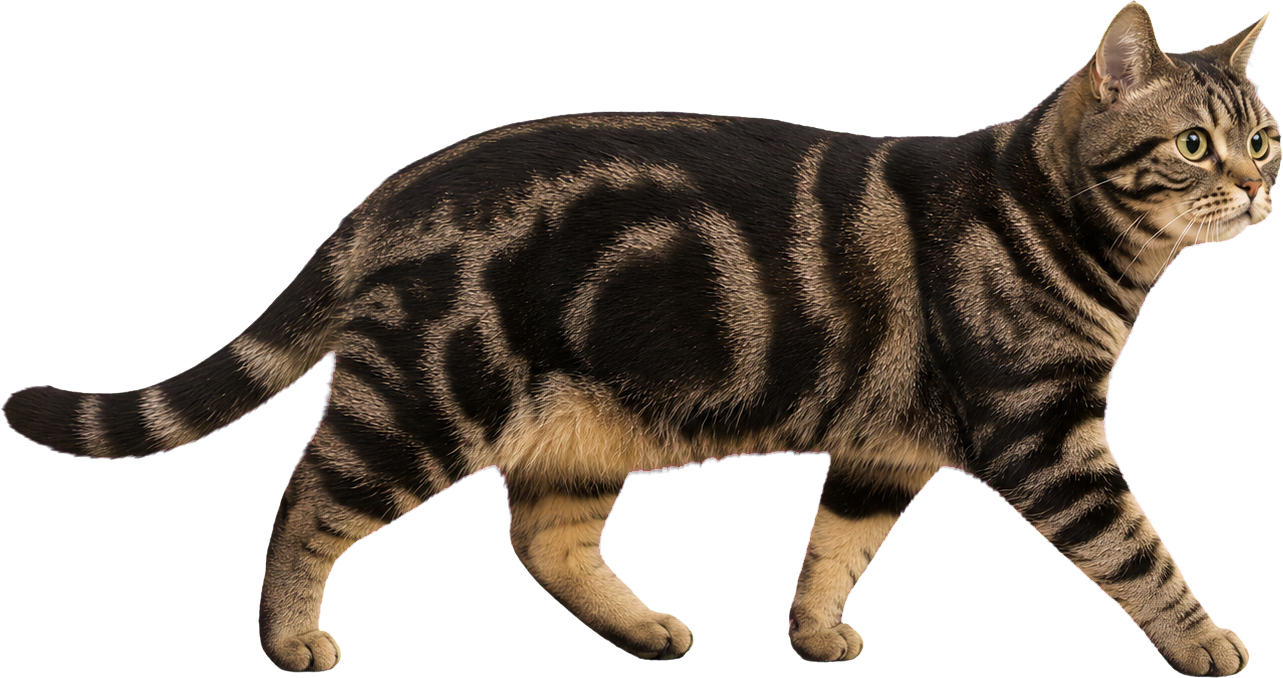
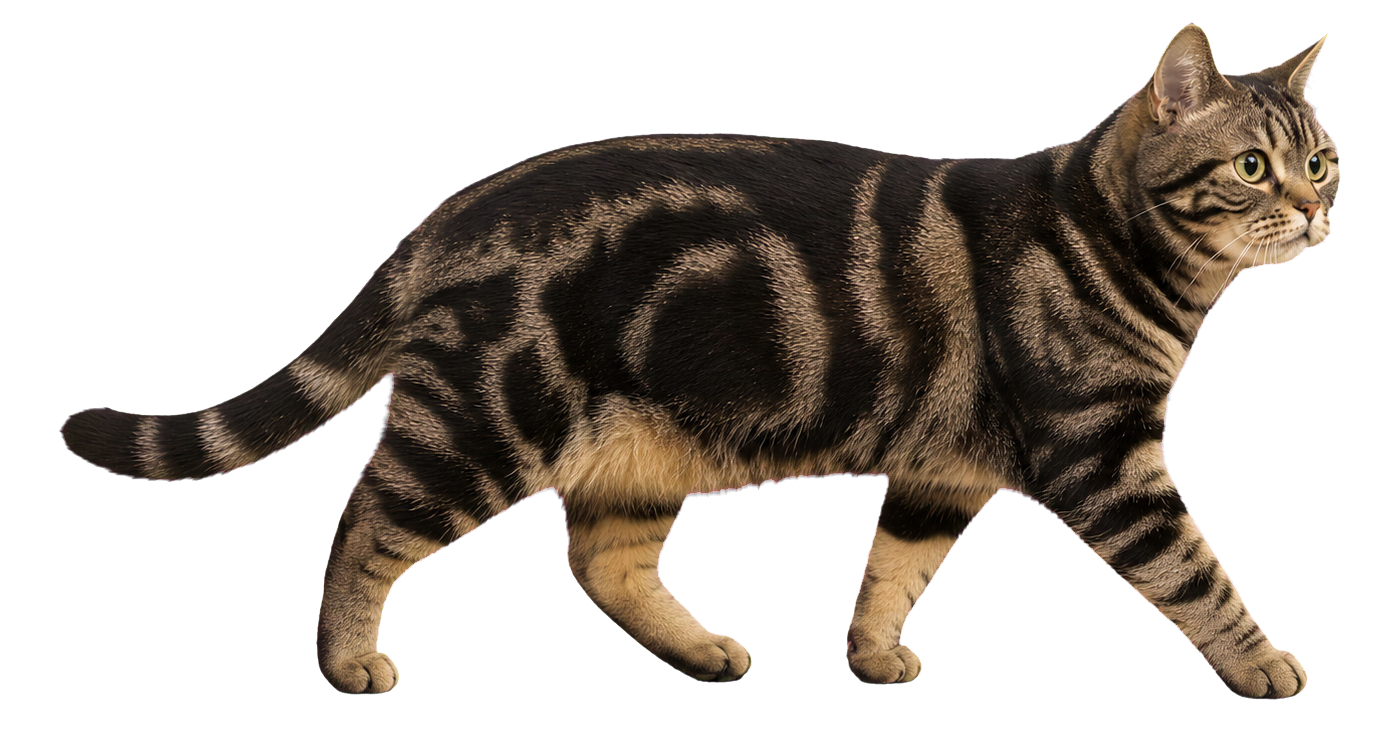
Animate Mimi gait and refine cabin artwork layout

diff --git a/app.js b/app.js
@@ -3047,6 +3047,8 @@ function setupMimiPet() {
     "mimi-sit-transparent.png",
     "mimi-walk-cutout.png"
   ];
+  const walkFrames = ["mimi-walk-cutout.png", "mimi-walk-2.png", "mimi-walk-3.png", "mimi-walk-4.png"];
+  [...walkFrames, "mimi-purr-expression.png"].forEach((src) => { const image = new Image(); image.src = src; });
   const now = Date.now();
   let state = { hunger: 78, mood: 82, health: 88, litter: 86, lastUpdate: now, lastDoctor: 0, pose: 0 };
   try { state = { ...state, ...JSON.parse(localStorage.getItem(storageKey) || "{}") }; } catch {}
@@ -3057,6 +3059,7 @@ function setupMimiPet() {
   state.lastUpdate = now;
   let audioContext = null;
   let moveTimer = null;
+  let walkFrameTimer = null;
   let lastX = Math.max(18, window.innerWidth - 150);
   const realPurr = new Audio("mimi-purr.mp3");
   realPurr.preload = "metadata";
@@ -3140,12 +3143,19 @@ function setupMimiPet() {
     pet.style.setProperty("--mimi-face", x < lastX ? "-1" : "1");
     lastX = x;
     pet.dataset.pose = "walk";
-    catImage.src = poses[1];
+    let walkFrame = 0;
+    catImage.src = walkFrames[walkFrame];
+    window.clearInterval(walkFrameTimer);
+    walkFrameTimer = window.setInterval(() => {
+      walkFrame = (walkFrame + 1) % walkFrames.length;
+      catImage.src = walkFrames[walkFrame];
+    }, 165);
     pet.style.setProperty("--mimi-x", `${x}px`);
     pet.style.setProperty("--mimi-y", `${y}px`);
     pet.classList.add("is-walking");
     sound("step");
     window.setTimeout(() => {
+      window.clearInterval(walkFrameTimer);
       pet.classList.remove("is-walking");
       state.pose = 0;
       pet.dataset.pose = "sit";
@@ -3170,8 +3180,8 @@ function setupMimiPet() {
       const reactions = {
         food: () => { state.hunger = Math.min(100, state.hunger + 25); state.health = Math.min(100, state.health + 2); speak("眯眯认真地吃了几口猫粮。"); },
         treat: () => { state.hunger = Math.min(100, state.hunger + 12); state.mood = Math.min(100, state.mood + 18); speak("猫条很好吃。她舔了舔鼻子。"); },
-        wand: () => { state.mood = Math.min(100, state.mood + 22); catImage.src = poses[1]; pet.dataset.pose = "walk"; pet.classList.add("is-playing"); window.setTimeout(() => { pet.classList.remove("is-playing"); pet.dataset.pose = "sit"; catImage.src = poses[0]; }, 1800); speak("她盯紧逗猫棒，还是很有精神。"); },
-        pet: () => { state.mood = Math.min(100, state.mood + 12); playRealPurr(); speak("她眯起眼睛，你听见了眯眯真实的呼噜声。噢，是一只小猫咪"); },
+        wand: () => { state.mood = Math.min(100, state.mood + 22); catImage.src = walkFrames[2]; pet.dataset.pose = "walk"; pet.classList.add("is-playing"); window.setTimeout(() => { pet.classList.remove("is-playing"); pet.dataset.pose = "sit"; catImage.src = poses[0]; }, 1800); speak("她盯紧逗猫棒，还是很有精神。"); },
+        pet: () => { state.mood = Math.min(100, state.mood + 12); playRealPurr(); catImage.src = "mimi-purr-expression.png"; pet.classList.add("is-purring"); window.setTimeout(() => { pet.classList.remove("is-purring"); catImage.src = poses[0]; }, 5200); speak("她眯起眼睛，你听见了眯眯真实的呼噜声。噢，是一只小猫咪"); },
         hold: () => { state.mood = Math.min(100, state.mood + 8); pet.classList.toggle("is-held"); speak(pet.classList.contains("is-held") ? "你把眯眯抱起来了。她安静地靠着你。" : "你轻轻把她放回地上。"); },
         litter: () => { state.litter = 100; speak("猫砂盆干净了。眯眯过来检查了一遍。"); },
         doctor: () => { state.health = 100; state.lastDoctor = Date.now(); speak("完成了一次温柔的健康检查，一切都被好好记挂着。"); }
@@ -3311,6 +3321,7 @@ function setupBlogBookmarks() {
   const closeAll = () => {
     document.querySelectorAll(".bookmark-panel.is-bookmark-open").forEach((panel) => panel.classList.remove("is-bookmark-open"));
     rail.querySelectorAll("button").forEach((button) => button.classList.remove("active"));
+    document.body.classList.remove("has-bookmark-open");
   };
 
   panels.forEach(({ selector, label }) => {
@@ -3338,6 +3349,7 @@ function setupBlogBookmarks() {
       if (!isOpen) {
         panel.classList.add("is-bookmark-open");
         tab.classList.add("active");
+        document.body.classList.add("has-bookmark-open");
       }
     });
     rail.append(tab);
@@ -3349,6 +3361,7 @@ function setupCabinExperience() {
   if (!experience) return;
   const image = $("#cabinRoomImage");
   const detailImage = $("#cabinRoomDetail");
+  const pendantImage = $("#cabinPendant");
   const title = $("#cabinRoomTitle");
   const note = $("#cabinRoomNote");
   const number = $("#cabinRoomNumber");
@@ -3357,11 +3370,11 @@ function setupCabinExperience() {
   const treasureDialog = $("#cabinTreasureDialog");
   const treasureMessage = $("#cabinTreasureMessage");
   const rooms = {
-    studio: { number: "ROOM 01", title: "夜色画室", note: "灯亮以后，街巷里的星星才慢慢出现。", image: "cabin-painting-night.jpg", alt: "夜色街巷油画", detail: "cabin-lamp-cutout.png", detailAlt: "画室里的台灯" },
-    water: { number: "ROOM 02", title: "水边房间", note: "胡桃木墙上，水面把光留在了睡莲之间。", image: "cabin-painting-water.jpg", alt: "睡莲水面油画", detail: "cabin-lamp-cutout.png", detailAlt: "水边房间的灯" },
-    flowers: { number: "ROOM 03", title: "花与书房", note: "花、旧书和绿色墙面，在夜里有自己的呼吸。", image: "cabin-painting-flowers.jpg", alt: "花与书静物油画", detail: "cabin-flowers-cutout.png", detailAlt: "独立的淡粉菊花瓶" },
-    hearth: { number: "ROOM 04", title: "炉边角落", note: "灯和薄雾守着这个角落，像一间一直有人等候的小屋。", image: "cabin-hearth.jpg", alt: "暖色灯光与加湿器角落", detail: "cabin-lamp-cutout.png", detailAlt: "炉边台灯" },
-    child: { number: "ROOM 05", title: "儿童画室", note: "胡桃木矮柜和柔软地毯，等着新的颜色住进来。", image: "cabin-painting-flowers.jpg", alt: "儿童房预留画作", detail: "cabin-flowers-cutout.png", detailAlt: "儿童房里的花瓶" }
+    studio: { number: "ROOM 01", title: "夜色画室", note: "灯亮以后，街巷里的星星才慢慢出现。", image: "cabin-art-night.jpg", alt: "夜色街巷油画", aspect: "portrait", detail: "cabin-lamp-cutout.png", detailAlt: "桌上的台灯", prop: "lamp", pendant: false },
+    water: { number: "ROOM 02", title: "水边房间", note: "胡桃木墙上，水面把光留在了睡莲之间。", image: "cabin-art-water.jpg", alt: "睡莲水面油画", aspect: "landscape", detail: "", detailAlt: "", prop: "none", pendant: true },
+    flowers: { number: "ROOM 03", title: "花与书房", note: "花、旧书和绿色墙面，在夜里有自己的呼吸。", image: "cabin-art-flowers.jpg", alt: "花与书静物油画", aspect: "landscape", detail: "cabin-flowers-cutout.png", detailAlt: "桌上的淡粉菊花瓶", prop: "flowers", pendant: true },
+    hearth: { number: "ROOM 04", title: "炉边角落", note: "灯和薄雾守着这个角落，像一间一直有人等候的小屋。", image: "cabin-hearth.jpg", alt: "暖色灯光与加湿器角落", aspect: "landscape", detail: "cabin-lamp-cutout.png", detailAlt: "桌上的台灯", prop: "lamp", pendant: false },
+    child: { number: "ROOM 05", title: "儿童画室", note: "胡桃木矮柜和柔软地毯，等着新的颜色住进来。", image: "cabin-art-flowers.jpg", alt: "儿童房预留画作", aspect: "landscape", detail: "cabin-flowers-cutout.png", detailAlt: "矮柜上的花瓶", prop: "flowers", pendant: true }
   };
   let lightOn = false;
   let footstepContext = null;
@@ -3421,8 +3434,12 @@ function setupCabinExperience() {
       document.querySelectorAll("[data-room]").forEach((item) => item.classList.toggle("active", item === button));
       image.src = room.image;
       image.alt = room.alt;
-      detailImage.src = room.detail;
+      image.dataset.aspect = room.aspect;
+      detailImage.hidden = !room.detail;
+      if (room.detail) detailImage.src = room.detail;
       detailImage.alt = room.detailAlt;
+      detailImage.dataset.prop = room.prop;
+      pendantImage.hidden = !room.pendant;
       number.textContent = room.number;
       title.textContent = room.title;
       note.textContent = room.note;
@@ -3439,9 +3456,9 @@ function setupCabinExperience() {
 }
 
 const defaultCabinArtworks = [
-  { id: "oil-night", category: "oil", title: "夜色街巷", image_url: "cabin-painting-night.jpg" },
-  { id: "oil-water", category: "oil", title: "水面与睡莲", image_url: "cabin-painting-water.jpg" },
-  { id: "oil-flowers", category: "oil", title: "花与旧书", image_url: "cabin-painting-flowers.jpg" }
+  { id: "oil-night", category: "oil", title: "夜色街巷", image_url: "cabin-art-night.jpg" },
+  { id: "oil-water", category: "oil", title: "水面与睡莲", image_url: "cabin-art-water.jpg" },
+  { id: "oil-flowers", category: "oil", title: "花与旧书", image_url: "cabin-art-flowers.jpg" }
 ];
 
 function renderCabinGallery() {

diff --git a/styles.css b/styles.css
@@ -623,29 +623,37 @@ label {
 
 .cabin-room__scene .cabin-room__painting {
   position: absolute;
-  top: 9%;
-  left: 7%;
-  width: 52%;
-  height: 66%;
-  padding: 7px;
-  border: 12px solid #4a2d19;
-  outline: 2px solid rgba(209, 157, 87, 0.34);
-  background: #130c08;
-  object-fit: cover;
+  top: 12%;
+  left: 8%;
+  width: 48%;
+  height: 50%;
+  object-fit: contain;
   opacity: 0.2;
   filter: brightness(0.42) saturate(0.55) sepia(0.2);
   transform: rotate(-0.7deg) translateY(4px);
-  box-shadow: 0 18px 40px rgba(0, 0, 0, 0.58), inset 0 0 0 2px #1c1009;
+  filter: brightness(0.42) saturate(0.55) sepia(0.2) drop-shadow(0 18px 22px rgba(0, 0, 0, 0.58));
   transition: opacity 700ms ease, filter 700ms ease, transform 900ms ease;
+}
+
+.cabin-room__painting[data-aspect="portrait"] {
+  top: 7%;
+  left: 12%;
+  width: 31%;
+  height: 65%;
+}
+
+.cabin-room__painting[data-aspect="landscape"] {
+  width: 48%;
+  height: 49%;
 }
 
 .cabin-room__scene .cabin-room__prop {
   position: absolute;
-  right: 5%;
-  bottom: 10%;
+  right: 8%;
+  bottom: 13%;
   z-index: 3;
-  width: 34%;
-  height: 64%;
+  width: 24%;
+  height: 47%;
   object-fit: contain;
   object-position: center bottom;
   opacity: 0.12;
@@ -653,6 +661,36 @@ label {
   transform: translateY(12px) rotate(1deg);
   transform-origin: center bottom;
   transition: opacity 650ms ease, filter 650ms ease, transform 800ms ease;
+}
+
+.cabin-room__prop[data-prop="flowers"] {
+  right: 9%;
+  bottom: 14%;
+  width: 22%;
+  height: 48%;
+}
+
+.cabin-room__pendant {
+  position: absolute;
+  top: 1%;
+  right: 3%;
+  z-index: 4;
+  width: 42%;
+  height: auto;
+  object-fit: contain;
+  object-position: center top;
+  opacity: 0.12;
+  filter: brightness(0.28) saturate(0.45);
+  transform: translateY(-10px);
+  transform-origin: center top;
+  transition: opacity 650ms ease, filter 650ms ease, transform 700ms ease;
+}
+
+.cabin-experience.is-lit .cabin-room__pendant {
+  opacity: 1;
+  filter: brightness(0.94) saturate(0.9) drop-shadow(0 14px 22px rgba(0, 0, 0, 0.55));
+  transform: translateY(0);
+  animation: cabin-pendant-sway 6s ease-in-out infinite;
 }
 
 .cabin-experience.is-lit .cabin-room__scene .cabin-room__prop {
@@ -706,6 +744,10 @@ label {
   50% { opacity: 0.64; transform: scale(1.06); }
 }
 
+@keyframes cabin-pendant-sway {
+  50% { transform: rotate(0.7deg); }
+}
+
 .cabin-furniture {
   position: absolute;
   right: 5%;
@@ -719,9 +761,9 @@ label {
 .cabin-table {
   position: absolute;
   right: 3%;
-  bottom: 0;
+  bottom: 4%;
   width: 34%;
-  height: 46%;
+  height: 58%;
   border-top: 10px solid #56351f;
   border-right: 8px solid #352015;
   border-left: 8px solid #352015;
@@ -882,8 +924,8 @@ label {
   width: 100%;
   aspect-ratio: 4 / 3;
   min-height: 0;
-  padding: 8px;
-  border: 10px solid #3c2619;
+  padding: 5px;
+  border: 3px solid #3c2619;
   border-radius: 2px;
   outline: 1px solid rgba(222, 178, 111, 0.24);
   background: #160d08;
@@ -903,7 +945,7 @@ label {
 .cabin-artwork img {
   width: 100%;
   height: 100%;
-  object-fit: cover;
+  object-fit: contain;
 }
 
 .cabin-artwork figcaption {
@@ -3560,6 +3602,12 @@ h2 {
   pointer-events: none;
 }
 
+body.has-bookmark-open .mimi-pet {
+  z-index: 18;
+  opacity: 0.38;
+  pointer-events: none;
+}
+
 .mimi-pet__cat {
   position: relative;
   width: clamp(92px, 9vw, 132px);
@@ -3610,6 +3658,10 @@ h2 {
 
 .mimi-pet:not(.is-walking):not(.is-playing) .mimi-pet__cat img {
   animation: mimi-idle-breathe 3.4s ease-in-out infinite;
+}
+
+.mimi-pet.is-purring .mimi-pet__cat {
+  animation: mimi-purr-body 760ms ease-in-out infinite alternate;
 }
 
 .mimi-pet.is-playing .mimi-pet__cat {
@@ -3827,6 +3879,11 @@ h2 {
 @keyframes mimi-idle-breathe {
   0%, 100% { transform: scaleX(var(--mimi-face, 1)) scaleY(1); }
   50% { transform: scaleX(var(--mimi-face, 1)) scaleY(1.018) translateY(-1px); }
+}
+
+@keyframes mimi-purr-body {
+  from { transform: translateY(0) rotate(-0.4deg); }
+  to { transform: translateY(-2px) rotate(0.4deg) scale(1.012); }
 }
 
 @keyframes mimi-play {

diff --git a/index.html b/index.html
@@ -4,7 +4,7 @@
     <meta charset="utf-8" />
     <meta name="viewport" content="width=device-width, initial-scale=1" />
     <title>Rose & Rainbow Blog</title>
-    <link rel="stylesheet" href="styles.css?v=mimi-cutout-motion-v2-20260614" />
+    <link rel="stylesheet" href="styles.css?v=mimi-walk-cycle-cabin-layout-v3-20260614" />
   </head>
   <body>
     <div class="shell">
@@ -328,8 +328,9 @@
               <div class="cabin-room">
                 <div class="cabin-room__scene">
                   <div class="cabin-wall-lines" aria-hidden="true"></div>
-                  <img id="cabinRoomImage" class="cabin-room__painting" src="cabin-painting-night.jpg" alt="小木屋画室" />
-                  <img id="cabinRoomDetail" class="cabin-room__prop" src="cabin-lamp-cutout.png" alt="画室里的台灯" />
+                  <img id="cabinRoomImage" class="cabin-room__painting" data-aspect="portrait" src="cabin-art-night.jpg" alt="小木屋画室" />
+                  <img id="cabinRoomDetail" class="cabin-room__prop" data-prop="lamp" src="cabin-lamp-cutout.png" alt="画室里的台灯" />
+                  <img id="cabinPendant" class="cabin-room__pendant" src="cabin-pendant-cutout.png" alt="木质吊灯" hidden />
                   <div class="cabin-room__darkness"></div>
                   <div class="cabin-room__lamp-glow"></div>
                   <div class="cabin-furniture" aria-hidden="true"><span class="cabin-chair"></span><span class="cabin-table"></span></div>
@@ -487,6 +488,6 @@
       <p id="cabinTreasureMessage"></p>
     </dialog>
 
-    <script src="app.js?v=mimi-real-purr-v2-20260614"></script>
+    <script src="app.js?v=mimi-walk-cycle-cabin-layout-v3-20260614"></script>
   </body>
 </html>
